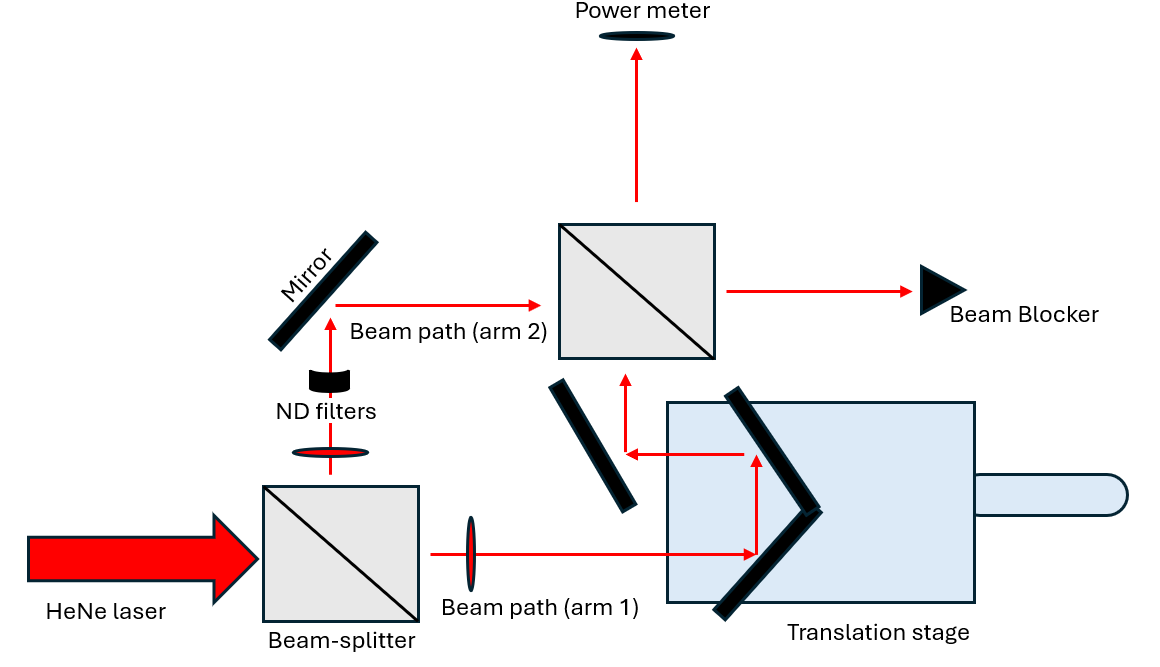
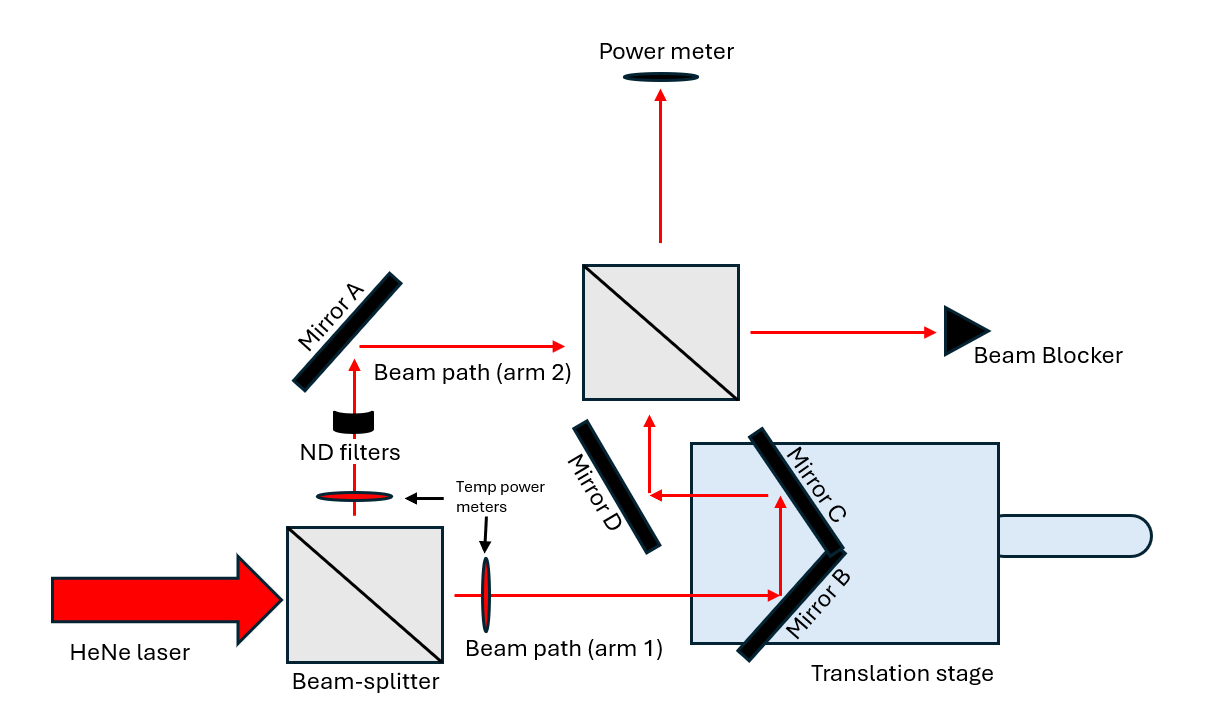
Adjustement to diagram, adding a graph fo rthe adjusted setup and updating the report

Changed region(s): [[0.0, 0.0, 0.9931, 0.9895], [0.2793, 0.8096, 0.3103, 0.8396]]

diff --git a/fft_light_analysis.py b/fft_light_analysis.py
@@ -32,7 +32,7 @@ def plot_spectrogram(power_data, sample_rate=1):
     plt.xlabel('Time [s]')
     plt.colorbar(label='Intensity [dB]')
     plt.show()
-
+"""
 # Process a single CSV file
 def process_file(file_path):
     try:
@@ -117,3 +117,4 @@ def main():
 # Run the program
 if __name__ == "__main__":
     main()
+"""

diff --git a/Interferometer Experiment Report.md b/Interferometer Experiment Report.md
@@ -23,31 +23,39 @@ After constructing the interferometer, the power measured of the final interfere
 ### <p style="font-size:30px">Materials and Methods</p>
 
 ### <p style="font-size:30p">materials</p>
+* HeNe laser with mount 
+* Kinematic mirror mount, KM100 Thorlabs
+* Precision Kinematic Mirror, Mount KS2 Thorlabs
+* UV Fused Silica Broadband Plate Beamsplitters (Coating: 350 - 1100 nm) Thorlabs
+* BB03-E03 - Ø7.0 mm Broadband Dielectric Mirror, 750 - 1100 nm Thorlabs
+* PT1 - 1" Translation Stage with Standard Micrometer, 1/4"-20 Taps Thorlabs
+* S120C - Standard Photodiode Power Sensor, Si, 400 - 1100 nm, 50 nW - 50 mW 
+* BC106N-VIS - CCD Camera Beam Profiler, Ø30 µm - 6.6 mm, 350 - 1100 nm Thorlabs
+* DET110 - High Speed Si Photo Detector, 17.5MHz BW, 350 to 1100nm Thorlabs
 
 ### <p style="font-size:30px">Setup construction</p>
 
-![Interferometer diagram](<Images/Images for Report/Mach-Zender Interferometer Diagram Correct.png>)
-<small> _Figure 2. Mach-Zender Beam splitter diagram slightly modified from: (ChaosFlaws, 2016)_
+![Interferometer diagram](image/InterferometerExperimentReport/1734493374662.png)
+<small> _Figure 2. Mach-Zender Beam splitter diagram modified from: (ChaosFlaws, 2016)_
 
-<big> The first step was to tighten the bases of all elements to match the same height as the laser placing the optical elements before the laser and center the beam roughly in the center of the element.
+<big> 
 
-The approximate location of the first mirror of arm one was identified. This position was marked and the translation stage was screwed into the table using the marked area as a guide. The first mirror was screwed into the right of the translation stage, and it was rotated slightly left. To track the beams movement a white card was held up and moved alongside the mirror. After reaching an approximate right angle the second mirror was placed in the beams path. This was a challenge due to the translation stage not being wide enough to accommodate both the mirrors’ bases. This was fixed by increasing the angle that the first mirror faced at to take up less horizontal space (_adjustments seen on figure 4_).
+The first step was to tighten the bases of all elements to match the same height as the laser, placing the optical elements before the laser and centering the beam roughly in the center of each element.
 
-To ensure simplicity in construction, an initial position was chosen for the second beam-splitter. The third mirror of arm one was positioned along the same row as the second beam-splitter as symmetry is crucial to the success of the interferometer. To construct the second arm a mirror was fastened at the intersection of the two beam-splitters, no adjustments was done to the angle of the mirror at this time.
+The approximate location of mirror B was identified. The translation stage was screwed into the table, mirror B was screwed into the right of the translation stage, and it was rotated slightly left. To track the beams movement a white card was held up and moved alongside the mirror. After reaching an approximate right angle mirror C was placed in the beams path. This was a challenge due to the translation stage width being too small to accommodate both the mirrors’ bases. This was fixed by increasing mirror B's angle, ocuppying less horizontal space (_adjustments seen on figure 4_).
+
+To ensure simplicity in construction, an initial position for the second beam-splitter was chosen. Mirror D was positioned in line to the second beam-splitter, this ensures symmetry. To construct arm two, mirror A was fastened at the intersection of the two beam-splitters, no adjustments was done to the angle of any mirror at this time.
 
 ![Mirror diagram](<Images/Images for Report/mirror diagram pptx.jpg>)
 <Small> _Figure 3. Diagram of a Thorlabs mirror, denoting its adjusters._
 <big>
 
-The horizontal shift knob was used to rotate the mirror, changing the angle of reflection as mentioned in the introduction to bounce into the beam-splitter.All the mirrors were adjusted until the output beam was a single dot seen _figure 4_. To be as accurate as possible, one arm was continuously blocked and unblocked to spot if there was any movement from one beam to the next.This process was repeated until there was no visual shift to the dot when each beam was blocked individually.
+The horizontal shift knob was used to rotate the mirror, changing the angle of reflection of the beam, mentioned in the introduction, into the beam-splitter. All the mirrors were adjusted until the output beam was a single dot seen _figure 4_. To be as accurate as possible, one arm was continuously blocked and unblocked to spot if there was any movement from one beam to the next. This process was repeated until there was no visual shift to the dot when each beam was blocked individually.
 
 ![Beam path](<Images/Images for Report/Beam path.png>)
 <small> _figure 4. Visualised beam path of the laser_
 
 ### <p style="font-size:20px">Challenges and adjustments</p>
-
-
-
 When adjusting the mirrors to form a single output, it was found that, though visually one dot, the fringes did not cover the entire dot. This indicated that the vertical alignment of the beams was off. To fix this problem the vertical shift knobs seen in _figure 3_ were adjusted until the mirror was perpendicular to the table.
 
 ### <p style="font-size:30px">Results and Observations</p>
